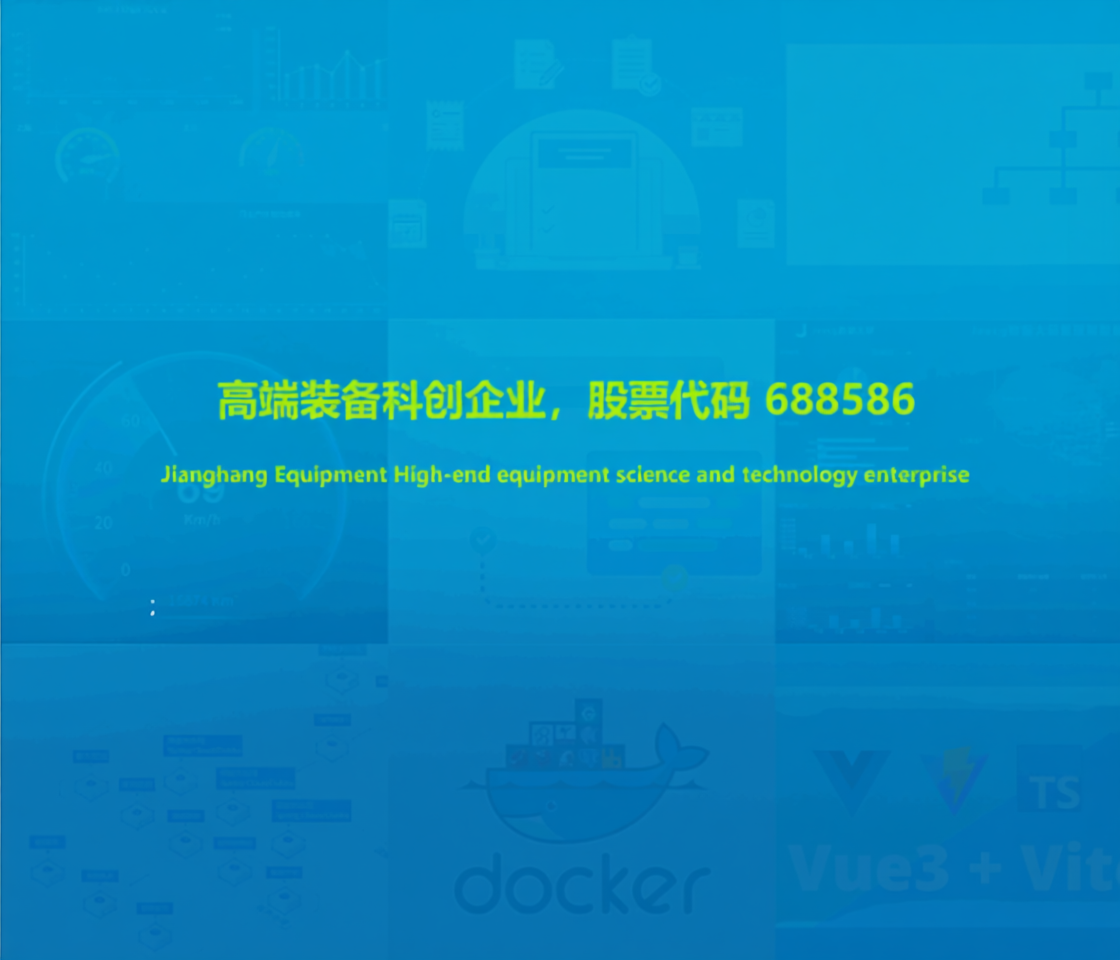
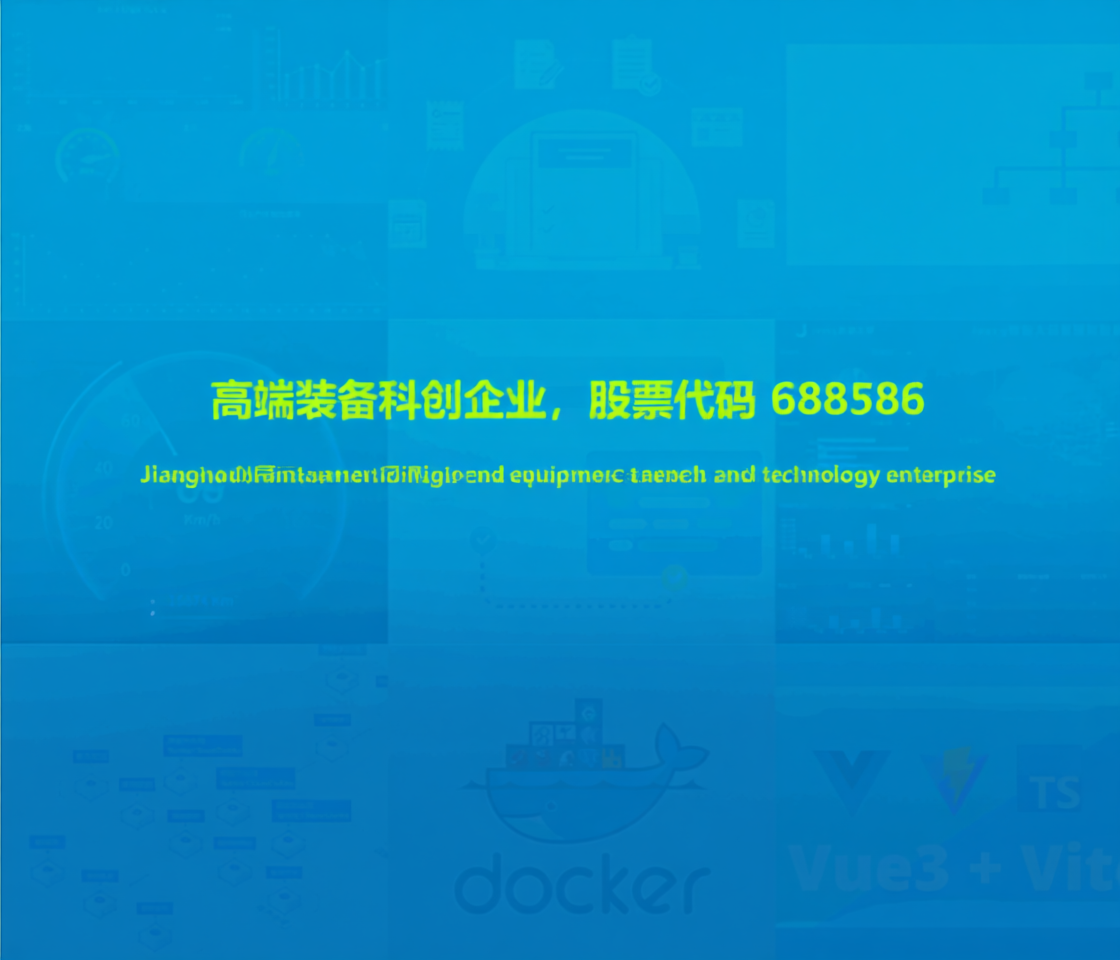
修改轮播图

Changed region(s): [[0.1875, 0.375, 0.8438, 0.4375], [0.125, 0.4688, 0.9062, 0.5312]]

diff --git a/web/src/components/sections/HeroSection.vue b/web/src/components/sections/HeroSection.vue
@@ -35,7 +35,24 @@
         />
       </div>
 
-      <!-- 第二张轮播 - 使用原版科技背景图片 -->
+      <!-- 第二张轮播 - 新增 hero_new_pic 图片 -->
+      <div class="hero-slide">
+        <n-image
+          :src="getImagePath('hero', 'new_second_slide')"
+          :fallback-src="PLACEHOLDER_IMAGES.business"
+          :alt="$t('website.hero.company_image_alt')"
+          :object-fit="adaptiveImageStyle.objectFit"
+          :preview-disabled="true"
+          :style="`position: absolute; top: 0; left: 0; z-index: 1; display: block; width: 100%; height: ${carouselHeight}; ${adaptiveImageStyle.additionalStyles}`"
+          :img-props="{
+            style: `width: 100%; height: 100%; object-fit: ${adaptiveImageStyle.objectFit}; object-position: ${adaptiveImageStyle.objectPosition};`
+          }"
+          @load="handleImageLoad"
+          @error="handleImageLoad"
+        />
+      </div>
+
+      <!-- 第三张轮播 - 使用原版科技背景图片（顺位后移） -->
       <div class="hero-slide">
         <n-image
           :src="getImagePath('hero', 'tech_background')"
@@ -52,7 +69,7 @@
         />
       </div>
 
-      <!-- 第三张轮播 - 使用新的公司实景图片2 -->
+      <!-- 第四张轮播 - 使用新的公司实景图片2（顺位后移） -->
       <div class="hero-slide">
         <n-image
           :src="getImagePath('hero', 'third_slide')"
@@ -69,7 +86,7 @@
         />
       </div>
 
-      <!-- 第四张轮播 - 使用新的公司实景图片3 -->
+      <!-- 第五张轮播 - 使用新的公司实景图片3（顺位后移） -->
       <div class="hero-slide">
         <n-image
           :src="getImagePath('hero', 'fourth_slide')"
@@ -105,7 +122,7 @@ const autoplayEnabled = ref(false) // 初始禁用，等待图片加载完成
 const carouselInterval = ref(6000) // 增加到6秒，确保有足够展示时间
 const currentSlideIndex = ref(0)
 const imagesLoaded = ref(0) // 跟踪已加载的图片数量
-const totalImages = ref(4) // 总图片数量
+const totalImages = ref(5) // 总图片数量（新增一张）
 
 // 响应式窗口尺寸监听
 const { width: windowWidth, height: windowHeight } = useWindowSize()

diff --git a/web/src/utils/imageUtils.js b/web/src/utils/imageUtils.js
@@ -26,9 +26,10 @@ export const IMAGE_RESOURCES = {
   // Hero轮播图片 - 使用原版图片+新增公司实景图片
   hero: {
     company_hero: '/images/hero_pictore_company.png',    // 第一张轮播 - 原版公司主图
-    tech_background: '/images/科技背景图片.jpg',           // 第二张轮播 - 原版科技背景
-    third_slide: '/images/company_scene_02.jpg',         // 第三张轮播 - 公司实景图2
-    fourth_slide: '/images/company_scene_03.jpg',        // 第四张轮播 - 公司实景图3
+    new_second_slide: '/images/hero_new_pic.png',        // 新增：第二张轮播 - 新图
+    tech_background: '/images/科技背景图片.jpg',           // 第三张轮播 - 原版科技背景
+    third_slide: '/images/company_scene_02.jpg',         // 第四张轮播 - 公司实景图2
+    fourth_slide: '/images/company_scene_03.jpg',        // 第五张轮播 - 公司实景图3
     // 备用图片配置
     tech_concept: '/images/商务科技概念图.png',
     circuit_background: '/images/科技电路背景图.png',
